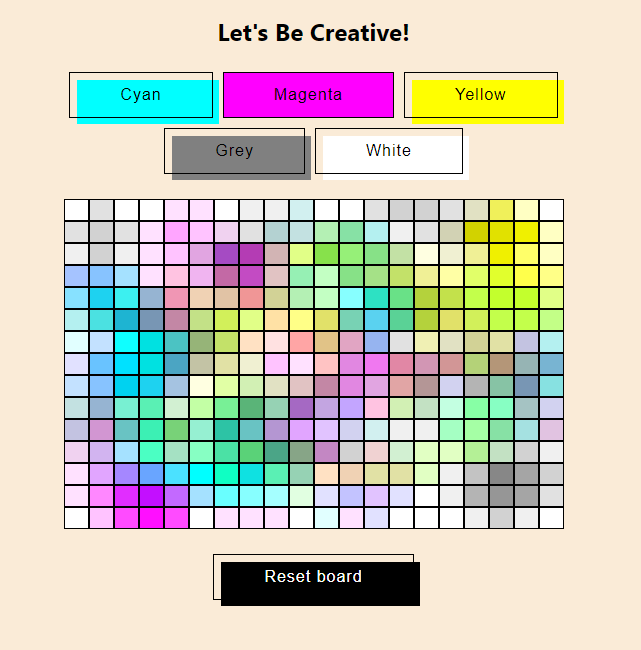
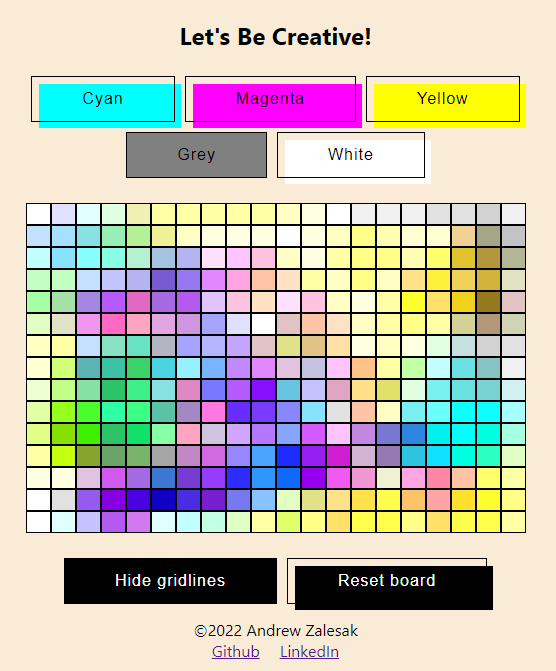
add footer

diff --git a/src/App.js b/src/App.js
@@ -3,14 +3,11 @@ import Square from './components/Square';
 import React from 'react';
 import darkenColor from './utils';
 import Navbar from './components/Navbar';
-import './components/Button.css'
+import './components/Button.css';
+import Footer from './components/Footer'
 
-// New functionality to add:
-// When mouse leaves while down, continue painting when it re-enters
-// My solution may just be to expand mouse enter/leave to the whole App.
 
 function App() {
-  //console.log("Re-ran App")
 
   // If you change these, make sure to also change the App.css
   const rows = 15
@@ -20,6 +17,8 @@ function App() {
     JSON.parse(localStorage.getItem("squares")) || newBoard()
   )
 
+  const [showGridlines, setShowGridlines] = React.useState(true)
+
   const squareElements = squares.map(square => (
     <Square
       key={square.id}
@@ -27,6 +26,7 @@ function App() {
       col={square.col}
       value={square.id}
       color={square.color}
+      showGridlines={showGridlines}
       changeColorHover={() => changeColor(square.row, square.col)}
       changeColorClick={() => changeColor(square.row, square.col, true)}
     />)
@@ -46,11 +46,7 @@ function App() {
   }
 
   function changeColor(row, col, isFromClick=false) {
-    console.log(`--PaintMode: ${paintMode}`)
-    console.log(`--isFromClick: ${isFromClick}`)
-    console.log(paintMode || isFromClick)
     if (paintMode || isFromClick) {
-      console.log("Running this code")
       setSquares(prevBoard => prevBoard.map(
       square => {
         // Fill center, top, bottom, left, right squares
@@ -104,6 +100,22 @@ function App() {
     activatePaintMode(false)
   }
 
+  function handleGridlinesButtonClick() {
+    setShowGridlines(prevState => !prevState)
+  }
+
+  // Button-pressed will override and keep it looking pressed
+  const gridlineButtonClasses = `button-52 ${showGridlines ? "button-pressed" : ""}`
+
+  const gridlinesButtonElement = (
+    <button
+    className={gridlineButtonClasses}
+    id="button--gridlines"
+    onClick={handleGridlinesButtonClick}>
+      {showGridlines ? "Hide gridlines" : "Show gridlines"}
+    </button>
+  )
+
   return (
     <div
     className="App"
@@ -117,7 +129,9 @@ function App() {
       <div className="square-container">
         {squareElements}
       </div>
+      {gridlinesButtonElement}
       <button className="button-52" id="button--reset" onClick={resetBoard}>Reset board</button>
+      <Footer />
     </div>
   );
 }

diff --git a/src/components/Footer.js b/src/components/Footer.js
@@ -1,0 +1,16 @@
+import React from 'react';
+import './Footer.css'
+
+export default function Footer() {
+    return (
+        <footer>
+            <div>
+                &copy;2022 Andrew Zalesak
+            </div>
+            <div className="professional-links">
+                <a href="https://github.com/A-Zalesak">Github</a>
+                <a href="https://www.linkedin.com/in/andrew-zalesak/">LinkedIn</a>
+            </div>
+      </footer>
+    )
+}

diff --git a/src/components/Square.js b/src/components/Square.js
@@ -1,10 +1,15 @@
 import React from 'react';
-import './Square.css';
 
 
 export default function Square(props) {
 
-    const styles = {backgroundColor: props.color}
+    const styles = {
+        backgroundColor: props.color,
+        borderWidth: props.showGridlines ? "1px" : "0px",
+        padding: props.showGridlines ? "10px" : "11px",
+        borderStyle: "solid",
+        borderColor: "black"
+    }
 
     return(
         <div

diff --git a/src/components/Navbar.js b/src/components/Navbar.js
@@ -21,9 +21,6 @@ export default function Navbar(props) {
         return `button-52 ${holdButtonDown}`
     }
 
-    //console.log(buttonClasses("cyan"))
-    //console.log(props.currentColor)
-
     const rgbElements = rgbColors.map(color => (
         <button
         key={color.id}

diff --git a/src/App.css b/src/App.css
@@ -10,10 +10,10 @@
   margin: 20px auto;
 }
 
-#button--reset {
+#button--reset, #button--gridlines {
   color: white;
 }
 
-#button--reset:after {
+#button--reset:after, #button--gridlines:after {
   background-color: black;
 }

diff --git a/src/index.css b/src/index.css
@@ -12,10 +12,3 @@ code {
   font-family: source-code-pro, Menlo, Monaco, Consolas, 'Courier New',
     monospace;
 }
-
-/* button {
-  text-align: center;
-  margin: 5px;
-  border-radius: 10%;
-} */
-

diff --git a/src/components/Footer.css b/src/components/Footer.css
@@ -1,0 +1,7 @@
+footer {
+    margin: 10px;
+}
+
+.professional-links > a {
+    margin: 10px;
+}
